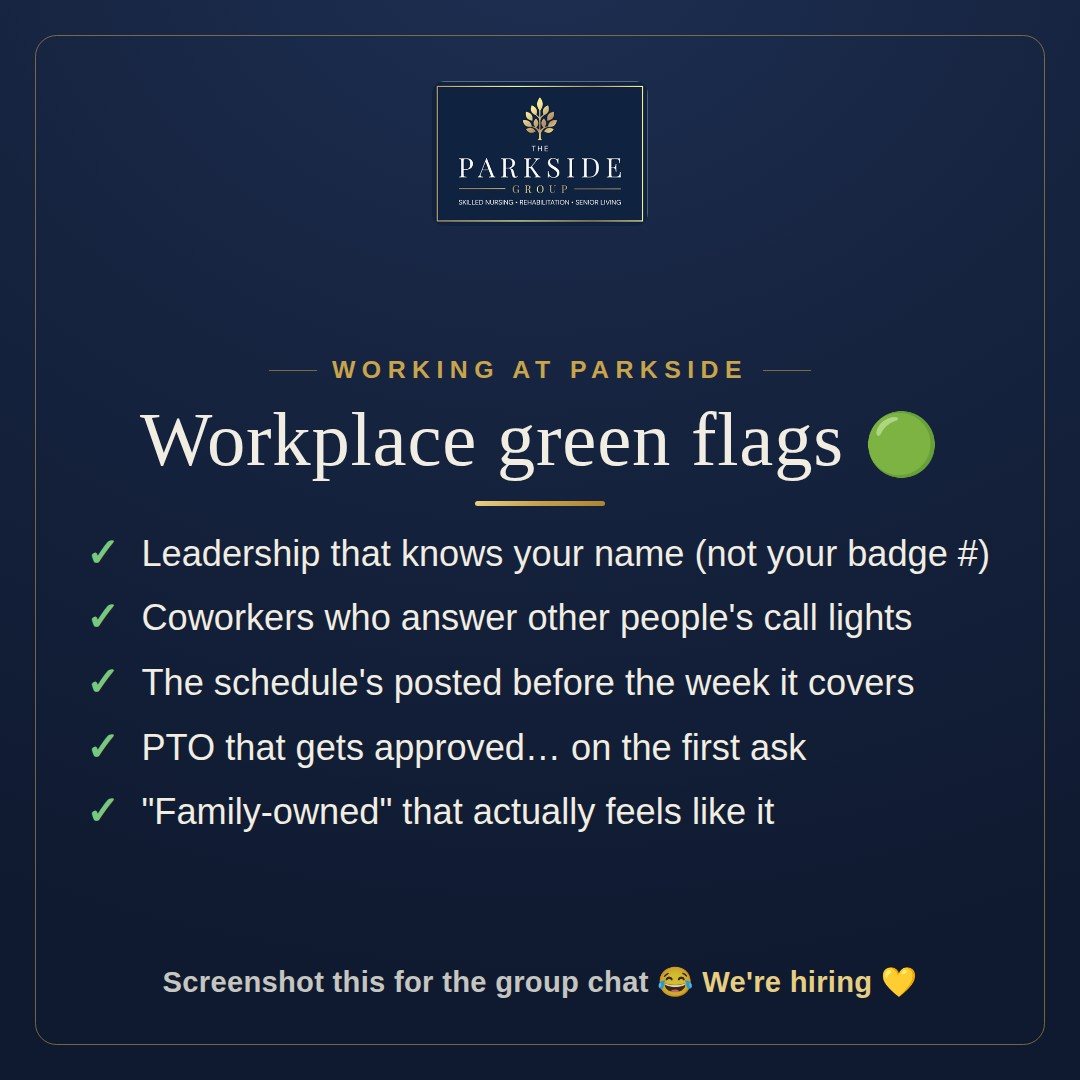
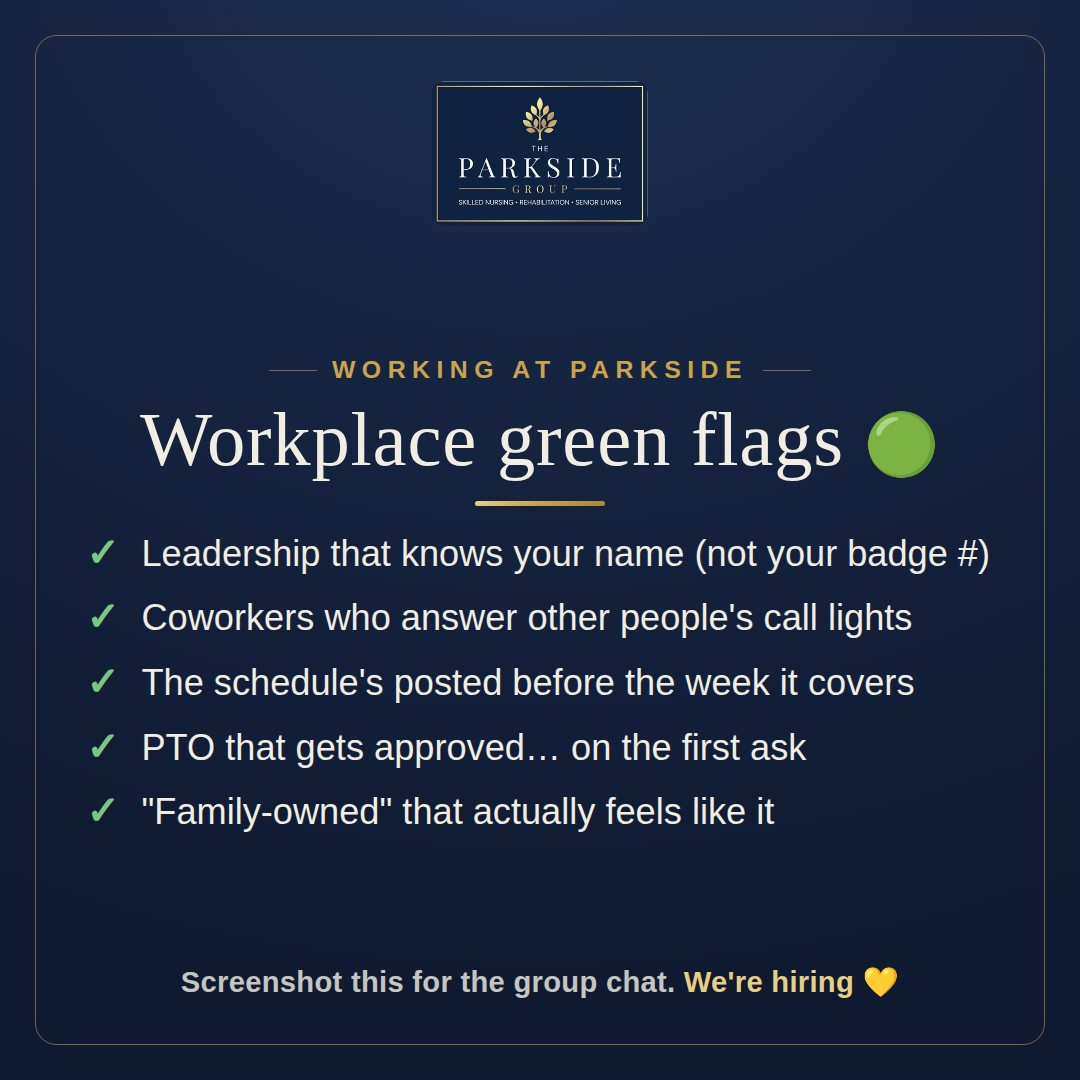
Refine Green Flags culture post — drop laughing emoji
Cleaner footer ("Screenshot this for the group chat. We're hiring 💛")
and matching caption; re-exported PNG + JPEG.

Claude-Session: https://claude.ai/code/session_01AFyvnUfvx4Uv9UtHpjxiVo

Changed region(s): [[0.1528, 0.8861, 0.8556, 0.9472]]

diff --git a/ga-hiring-ads/captions.md b/ga-hiring-ads/captions.md
@@ -190,7 +190,7 @@ Tag someone who was made for this work 👇 We're hiring across Georgia.
 ## B. Workplace Green Flags — `culture/greenflags.png` / `greenflags.jpg`
 
 **Instagram / LinkedIn**
-Workplace green flags 🟢 (screenshot this for the group chat 😂)
+Workplace green flags 🟢 (screenshot this for the group chat)
 
 ✓ Leadership that knows your name (not your badge #)
 ✓ Coworkers who answer other people's call lights
